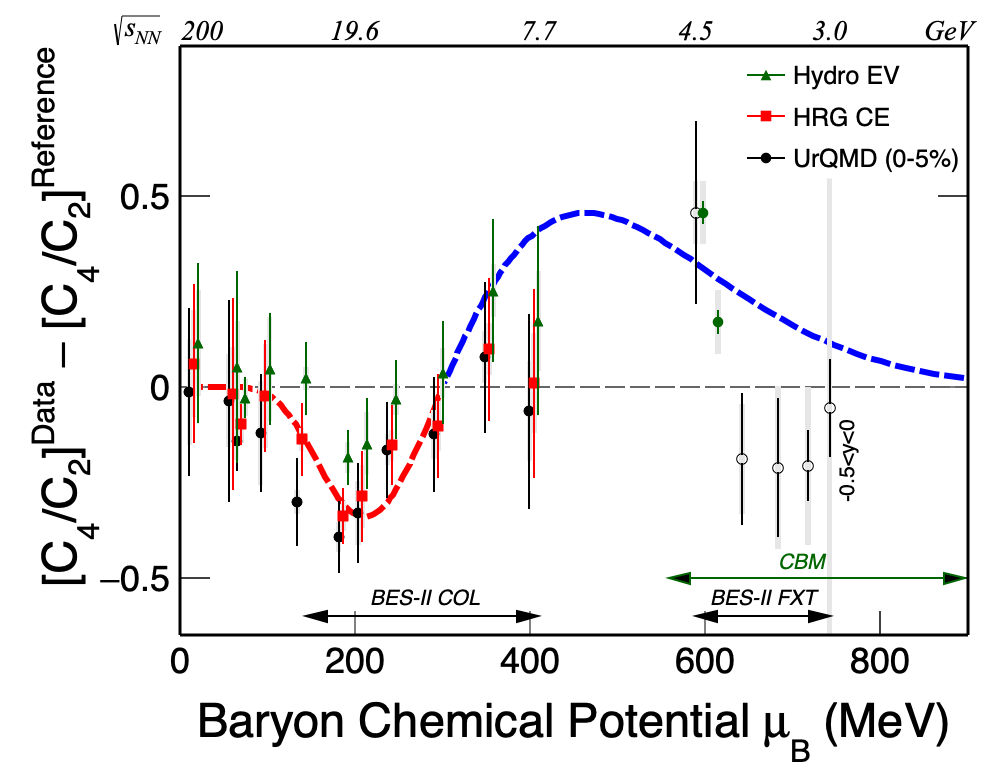
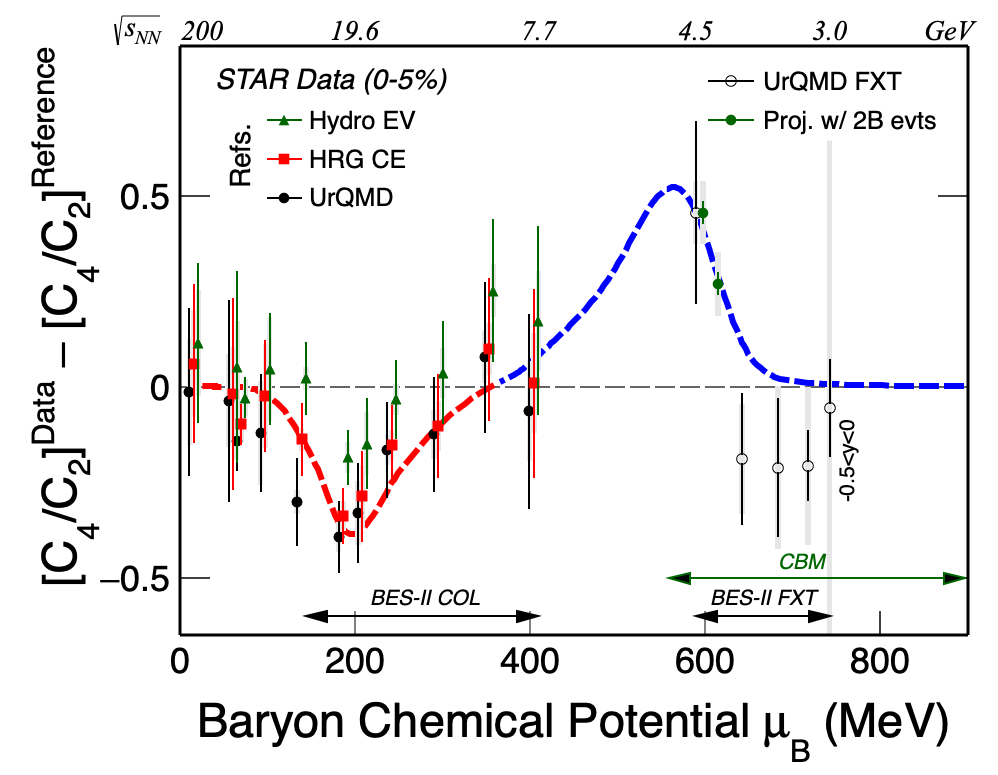
Update C42_muB plot with proj., labels and curves

diff --git a/NetProtonMoments/plotDiff_202508.C b/NetProtonMoments/plotDiff_202508.C
@@ -37,6 +37,7 @@ void plotDiff_202508()
   const int ntot_datapts=11;
   const int n_model = 4;
   const int plotflag[n_model] = {1, 1, 1, 0}; // UrQMD, HRG CE, Hydro EV, 70-80%
+  const int plotflag_fxt[n_model] = {1, 0, 0, 0}; // UrQMD, HRG CE, Hydro EV, 70-80%
 
   ////data 0-5%
   double C42_ener[ntot_datapts]={7.7,9.2,11.5,14.6,17.3,19.6,27,39,54.4,62.4,200};
@@ -89,7 +90,8 @@ void plotDiff_202508()
   double C42_stat_model[n_model][ntot_datapts];
   double C42_sys_model[n_model][ntot_datapts];
   double C42_err_model[n_model][ntot_datapts];
-  const Char_t *NameModel[n_model] = {"UrQMD (0-5%)", "HRG CE","Hydro EV","Data (70-80%)"};
+  //  const Char_t *NameModel[n_model] = {"UrQMD (0-5%)", "HRG CE","Hydro EV","Data (70-80%)"};
+  const Char_t *NameModel[n_model] = {"UrQMD", "HRG CE","Hydro EV","Data (70-80%)"};
   for(int i=0;i<ntot_datapts;i++) {
     sNN[i] = C42_ener[i];
     muB[i] = fun_muB->Eval(sNN[i]);
@@ -161,7 +163,7 @@ void plotDiff_202508()
 
   const int ntot_fxt_proj = 2;
   double C42_ener_fxt_proj[ntot_fxt] = {4.2, 4.4};
-  double C42_fxt_proj[ntot_fxt] = {0.65, 0.9810};  // Yu's data - 202508
+  double C42_fxt_proj[ntot_fxt] = {0.75, 0.9810};  // Yu's data - 202508
   double C42_stat_fxt_proj[ntot_fxt] = {0.0308, 0.0308};
   double C42_sys_fxt_proj[ntot_fxt] = {0.0834, 0.0834};
 
@@ -314,7 +316,7 @@ void plotDiff_202508()
   d0->GetYaxis()->SetNdivisions(405);  
   d0->GetYaxis()->SetTitle("[C_{4}/C_{2}]^{Data} #minus [C_{4}/C_{2}]^{Reference}");  
   //  d0->GetYaxis()->SetTitle("R_{42}^{data} / R_{42}^{model}");  
-  d0->GetYaxis()->SetTitleOffset(1.1);  
+  d0->GetYaxis()->SetTitleOffset(1.2);  
   d0->GetYaxis()->SetTitleSize(0.068);  
   d0->GetYaxis()->SetLabelOffset(0.012);
   d0->GetYaxis()->SetLabelSize(0.05);
@@ -362,7 +364,7 @@ void plotDiff_202508()
   }
 
   for(int im=0;im<n_model;im++) {
-    if(!plotflag[im]) continue;    
+    if(!plotflag_fxt[im]) continue;    
     gr_d[im]->Draw("p");
     gr_d_fxt[im]->Draw("p");
   }
@@ -435,6 +437,7 @@ void plotDiff_202508()
   //  drawLine(x1, 0, x2, 0, 1, 9, 13);
   drawLine(x1, 0, x2, 0, 2, 9, 13);
 
+
   TF1 *fun = new TF1("fun",xgx,x1,x2,5);
   //  fun->SetParameters(3.0, 0.2, 11.5, 0.25, 0.18);
   fun->SetParameters(3.0, 0.2, 11.5, 0.25, 0.18);
@@ -461,22 +464,31 @@ void plotDiff_202508()
   fun_n->SetLineStyle(9);
   //  fun_n->Draw("same");
 
+  TGraph *gr_fun_input = new TGraph("R42_curve.txt","%lg %lg");
+  TSpline3 *gr_fun = new TSpline3("sp3",gr_fun_input);
+
   const Int_t np = 100;
+  const Double_t e_s = 9.0;
   double ener_p[np], muB_p[np], y_p[np], y_p1[np];
   double ener_n[np], muB_n[np], y_n[np];
   for(int i=0;i<np;i++) {
     //    ener_p[i] = (11.5 - 2.0)/np*(i+0.1) + 2.0;
-    ener_p[i] = (11.5 - 2.0)/np*(i+0.1) + 2.0;
+    ener_p[i] = (e_s - 2.0)/np*(i+0.1) + 2.0;
     muB_p[i] = fun_muB->Eval(ener_p[i]);
-    y_p[i] = fun_p->Eval(ener_p[i]);
-    y_p1[i] = fun_p->Eval(ener_p[i]) * 0.5;
+    // y_p[i] = fun_p->Eval(ener_p[i]);
+    // y_p1[i] = fun_p->Eval(ener_p[i]) * 0.5;
+    y_p[i] = gr_fun->Eval(muB_p[i]);
+    y_p1[i] = gr_fun->Eval(muB_p[i]) * 0.5;
     
     //    ener_n[i] = (200 - 11.5)/np*(i+0.1) + 11.5;
-    ener_n[i] = (200 - 11.5)/np*(i+0.1) + 11.5;
+    ener_n[i] = (200 - e_s)/np*(i+0.1) + e_s;
     muB_n[i] = fun_muB->Eval(ener_n[i]);
-    y_n[i] = fun_p->Eval(ener_n[i]);
+    //    y_n[i] = fun_p->Eval(ener_n[i]);
+    y_n[i] = gr_fun->Eval(muB_n[i]);
   }
 
+  
+  
   TGraph *gr_p = new TGraph(np, muB_p, y_p);
   gr_p->SetLineColor(kBlue);
   gr_p->SetLineWidth(6);
@@ -562,7 +574,7 @@ void plotDiff_202508()
 
   drawText(770, -0.3, "-0.5<y<0", 42, 0.03,90);
   
-  TLegend *leg1 = new TLegend(0.74, 0.77, 0.96, 0.93);
+  TLegend *leg1 = new TLegend(0.26, 0.72, 0.46, 0.87);
   leg1->SetLineColor(10);
   leg1->SetTextSize(0.035);
   for(int im=n_model-1;im>=0;im--) {
@@ -570,6 +582,18 @@ void plotDiff_202508()
     leg1->AddEntry(gr_muB_d[im], NameModel[im], "pl");
   }
   leg1->Draw();
+  drawText(80, 0.52, "Refs.", 42, 0.04,90);
+  drawText(40, 0.78, "STAR Data (0-5%)", 52, 0.04);
+
+  TLegend *leg2 = new TLegend(0.7, 0.82, 0.96, 0.92);
+  leg2->SetLineColor(10);
+  leg2->SetTextSize(0.035);
+  for(int im=n_model-1;im>=0;im--) {
+    if(!plotflag_fxt[im]) continue;
+    leg2->AddEntry(gr_muB_d_fxt[im], Form("%s FXT",NameModel[im]), "pl");
+    leg2->AddEntry(gr_muB_d_fxt_proj[im],"Proj. w/ 2B evts","pl");
+  }
+  leg2->Draw();
 
   drawArrow(fun_muB->Eval(27.0), y1+0.05, fun_muB->Eval(7.7), y1+0.05, 0.03, 30, 2, 1, 1, "<|>");
   drawText(fun_muB->Eval(17), y1+0.08, "BES-II COL", 52, 0.03);
